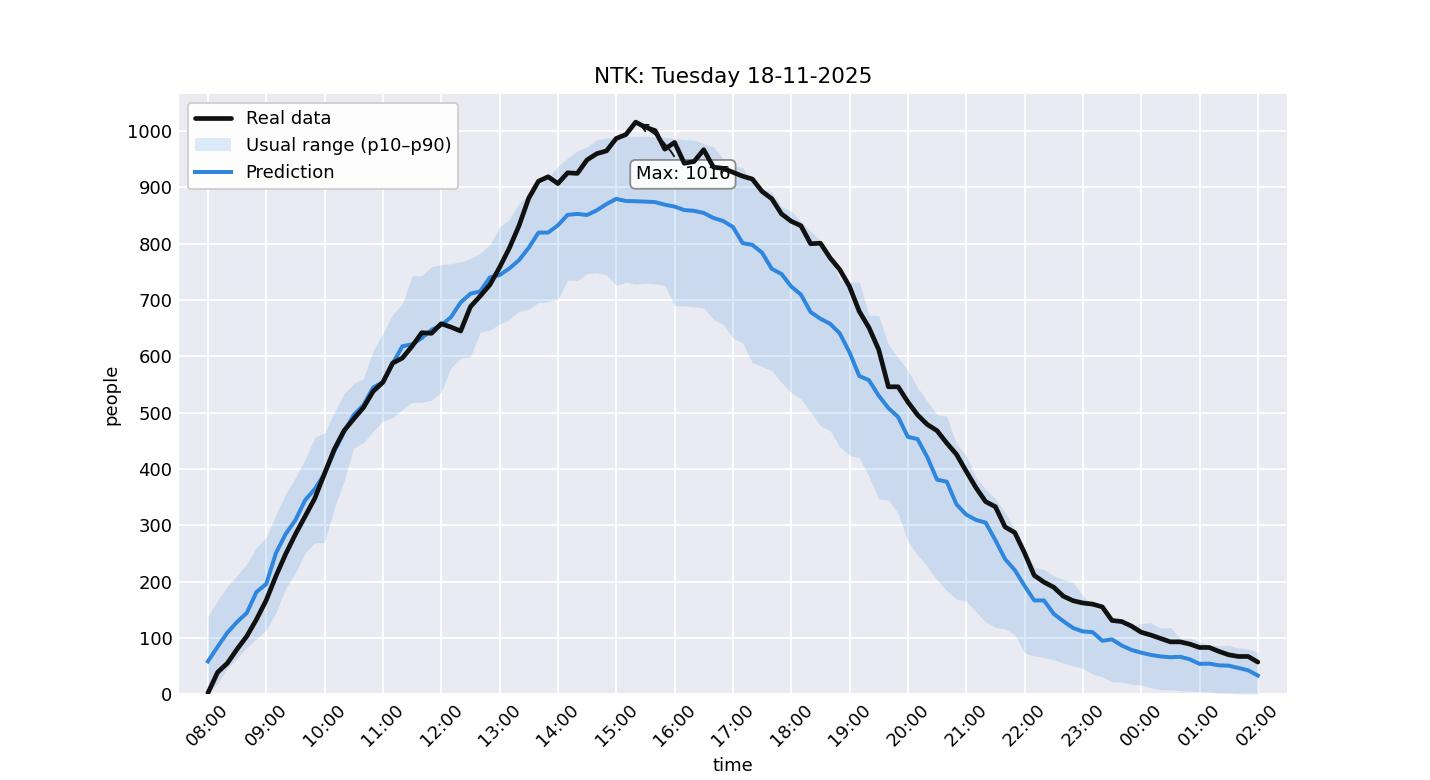
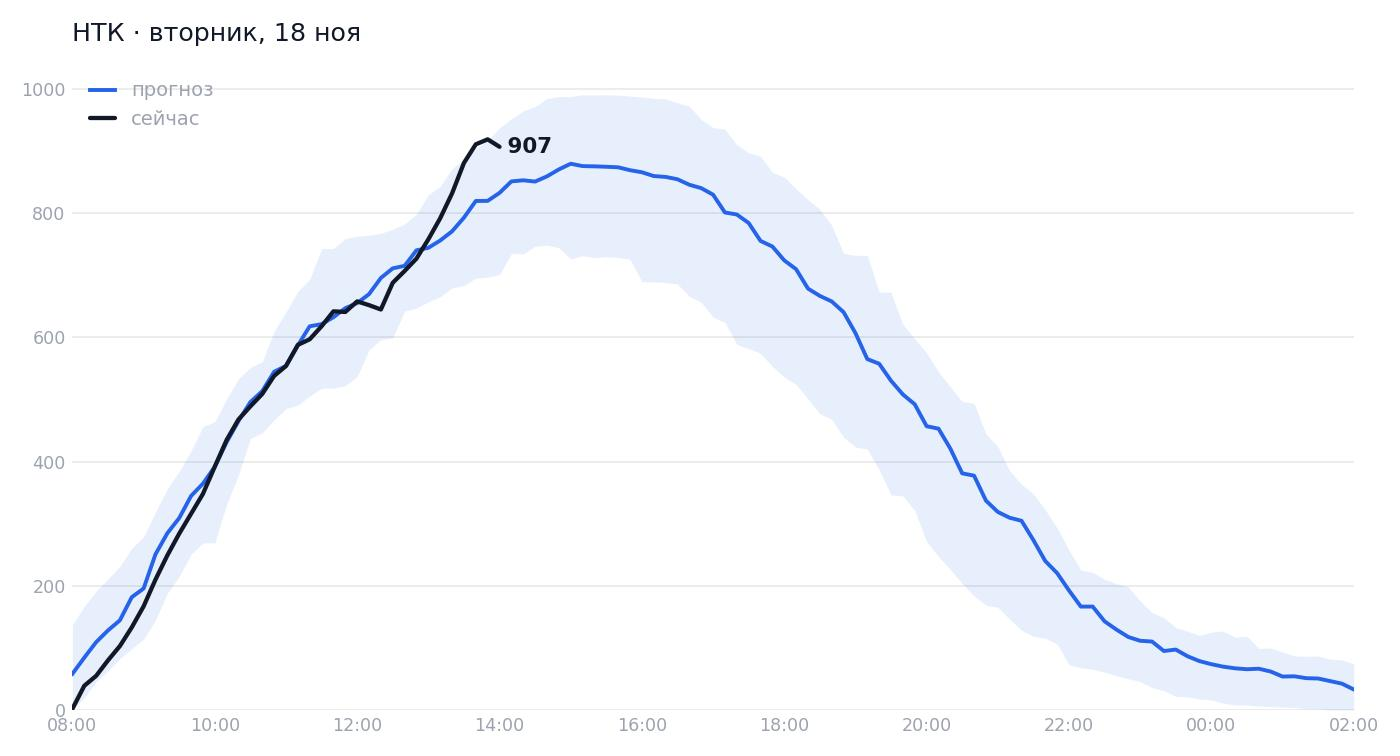
feat(plot): minimal clean /graph redesign (RU labels); drop legacy /weather command
Weather plotting code (apps/weather_api.py, icons/) kept in the repo for a
planned morning digest. Refresh README showcase and command list.

diff --git a/apps/plot_functions.py b/apps/plot_functions.py
@@ -7,19 +7,22 @@ from matplotlib.figure import Figure
 
 from apps.predictModels import predictModels
 
-# Palette + light "seaborn-darkgrid"-like styling, applied per-axes so it does
-# not leak into other figures (e.g. the weather plot).
-_INK = "#111111"
-_BLUE = "#2e86de"
+# Minimal "clean" palette — one ink tone, one accent, muted secondary text.
+_INK = "#111827"  # real data line
+_ACCENT = "#2563EB"  # prediction
+_MUTED = "#9CA3AF"  # ticks / secondary text
+_GRID = "#ECECEC"
+
+_RU_WEEKDAYS = (
+    "понедельник", "вторник", "среда", "четверг", "пятница", "суббота", "воскресенье",
+)
+_RU_MONTHS = (
+    "янв", "фев", "мар", "апр", "мая", "июн", "июл", "авг", "сен", "окт", "ноя", "дек",
+)
 
 
-def _style_axes(ax: Axes) -> None:
-    ax.set_facecolor("#EAEAF2")
-    ax.grid(True, color="white", linewidth=1.0, axis="both")
-    ax.set_axisbelow(True)
-    for spine in ax.spines.values():
-        spine.set_visible(False)
-    ax.tick_params(length=0)
+def _ru_date(dt: datetime) -> str:
+    return f"{_RU_WEEKDAYS[dt.weekday()]}, {dt.day} {_RU_MONTHS[dt.month - 1]}"
 
 
 class PlotGraphs:
@@ -37,88 +40,78 @@ class PlotGraphs:
                 quantities.append(count)
         return datetimes, quantities
 
-    async def daily_graph(
-        self, target_day: datetime | None = None
-    ) -> tuple[Figure, Axes, datetime, datetime]:
-        hours_delta = 18
-        target_day = target_day or datetime.now()
-        start_datetime = target_day.replace(hour=10 if target_day.isoweekday() >= 6 else 8).replace(
-            minute=0, second=0, microsecond=0
-        )
-        end_datetime = start_datetime + timedelta(hours=hours_delta)
-
-        # get data
-        x_times, y_quantities = await self.get_ntk_data(start_datetime, end_datetime)
-
-        fig, ax = plt.subplots(figsize=(11, 6))
-        _style_axes(ax)
-        ax.set_yticks(range(0, 1100, 100))
-        ax.xaxis.set_major_locator(mdates.HourLocator(interval=1))
-        ax.xaxis.set_major_formatter(mdates.DateFormatter("%H:%M"))
-
-        ax.plot(
-            x_times,
-            y_quantities,
-            linestyle="-",
-            color=_INK,
-            linewidth=2.6,
-            solid_capstyle="round",
-            label="Real data",
-            zorder=5,
-        )
-
-        # annotation settings
-        ax.set_xlabel("time")
-        ax.set_ylabel("people")
-        ax.set_title(f"NTK: {start_datetime.strftime('%A')} {start_datetime.strftime('%d-%m-%Y')}")
-
-        # Add annotation for max value
-        if y_quantities:
-            y_max = max(y_quantities)
-            x_max = x_times[y_quantities.index(y_max)]
-            ax.annotate(
-                f"Max: {y_max}",
-                xy=(x_max, y_max),
-                xytext=(x_max, y_max * 0.9),
-                bbox=dict(boxstyle="round", fc="w", ec="0.5", alpha=0.9),
-                arrowprops=dict(arrowstyle="->", connectionstyle="arc3,rad=0.2", color=_INK),
-            )
-
-        ax.set_xlim(start_datetime - timedelta(minutes=30), end_datetime + timedelta(minutes=30))
-        ax.set_ylim(bottom=0)
-        plt.setp(ax.get_xticklabels(), rotation=45)
-
-        return fig, ax, start_datetime, end_datetime
-
     async def daily_graph_with_predictions(
         self, target_day: datetime | None = None
     ) -> tuple[Figure, Axes]:
+        """Minimal occupancy chart: real data + prediction median + p10–p90 band."""
         target_day = target_day or datetime.now()
-        fig, ax, _, _ = await self.daily_graph(target_day)
+        start = target_day.replace(
+            hour=10 if target_day.isoweekday() >= 6 else 8,
+            minute=0,
+            second=0,
+            microsecond=0,
+        )
+        end = start + timedelta(hours=18)
 
+        x_times, y_quantities = await self.get_ntk_data(start, end)
         forecast = await predictModels.predict_day(target_day)
-        # Shaded p10–p90 band = where occupancy usually lands (central 80%).
+
+        fig, ax = plt.subplots(figsize=(10, 5.4))
+        fig.patch.set_facecolor("white")
+        ax.set_facecolor("white")
+        for spine in ax.spines.values():
+            spine.set_visible(False)
+        ax.grid(True, axis="y", color=_GRID, linewidth=1.0)
+        ax.set_axisbelow(True)
+        ax.tick_params(length=0, colors=_MUTED, labelsize=9)
+        ax.xaxis.set_major_locator(mdates.HourLocator(interval=2))
+        ax.xaxis.set_major_formatter(mdates.DateFormatter("%H:%M"))
+
+        # Forecast: soft p10–p90 band + median line.
         ax.fill_between(
             forecast.timestamps,
             forecast.p10,
             forecast.p90,
-            color=_BLUE,
-            alpha=0.16,
+            color=_ACCENT,
+            alpha=0.10,
             linewidth=0,
-            label="Usual range (p10–p90)",
             zorder=1,
         )
-        # Median forecast line.
         ax.plot(
             forecast.timestamps,
             forecast.p50,
-            linestyle="-",
-            color=_BLUE,
+            color=_ACCENT,
+            linewidth=2.0,
+            label="прогноз",
+            zorder=2,
+        )
+        # Real data so far.
+        ax.plot(
+            x_times,
+            y_quantities,
+            color=_INK,
             linewidth=2.2,
-            label="Prediction",
+            solid_capstyle="round",
+            label="сейчас",
             zorder=3,
         )
-        ax.legend(loc="upper left", framealpha=0.95)
+        # Tag the latest real value at the tip of the line.
+        if y_quantities:
+            ax.annotate(
+                f" {y_quantities[-1]}",
+                (x_times[-1], y_quantities[-1]),
+                color=_INK,
+                fontsize=11,
+                fontweight="bold",
+                va="center",
+                zorder=4,
+            )
+
+        ax.set_ylim(bottom=0)
+        ax.set_xlim(start, end)
+        ax.set_title(f"НТК · {_ru_date(start)}", loc="left", color=_INK, fontsize=13, pad=12)
+        ax.legend(loc="upper left", frameon=False, fontsize=10, labelcolor=_MUTED, handlelength=1.3)
+        fig.tight_layout()
         return fig, ax
 
 

diff --git a/bot/handlers/data.py b/bot/handlers/data.py
@@ -5,7 +5,6 @@ from aiogram.filters import Command
 
 from apps.plot_functions import plotGraph
 from apps.predictModels import predictModels
-from apps.weather_api import weatherAPI
 from bot import db
 from bot.filters import NTKChatFilter, SuperAdmins
 
@@ -14,7 +13,7 @@ router = Router()
 
 @router.message(Command("graph"), NTKChatFilter())
 async def send_stats(message: types.Message, bot: Bot):
-    """Send graph with NTK visits prediction and weather forecast"""
+    """Send the occupancy graph: real data, predicted median and the p10–p90 range."""
     fig_visits, _ = await plotGraph.daily_graph_with_predictions()
 
     buffer_visits = io.BytesIO()
@@ -26,25 +25,6 @@ async def send_stats(message: types.Message, bot: Bot):
         photo=types.BufferedInputFile(
             file=buffer_visits.read(),
             filename="visits.png",
-        ),
-    )
-    await message.delete()
-
-
-@router.message(Command("weather"), SuperAdmins())
-async def send_weather(message: types.Message, bot: Bot):
-    """Send weather forecast"""
-    fig_weather, _, _ = await weatherAPI.plot_daily_weather_forecast()
-
-    buffer_weather = io.BytesIO()
-    fig_weather.savefig(buffer_weather, format="png")
-    buffer_weather.seek(0)
-
-    await bot.send_photo(
-        chat_id=message.chat.id,
-        photo=types.BufferedInputFile(
-            file=buffer_weather.read(),
-            filename="weather.png",
         ),
     )
     await message.delete()

diff --git a/tests/apps/test_plot_uses_predict_day.py b/tests/apps/test_plot_uses_predict_day.py
@@ -19,7 +19,8 @@ async def test_daily_graph_with_predictions_draws_predicted_median(monkeypatch):
     fig, ax = await pf.plotGraph.daily_graph_with_predictions(datetime(2024, 3, 1, 12, 0))
 
     labels = [line.get_label() for line in ax.get_lines()]
-    assert "Prediction" in labels
+    assert "прогноз" in labels
+    assert "сейчас" in labels
     import matplotlib.pyplot as plt
 
     plt.close(fig)

diff --git a/README.md b/README.md
@@ -2,17 +2,17 @@
 Telegram bot in @chat_ntk chat for students who regularly visit the National Technical Library. The bot regularly collects statistics on library visits. Based on this data, machine learning models predict the expected occupancy of the library — together with an uncertainty range, not just a single number.
 
 
-| ![Daily graph with predictions](example_images/daily_graph_with_predictions.jpg) | ![Weather forecast](example_images/weather_forecast.jpg) |
-|:---:|:---:|
-| Daily graph with predictions | Weather forecast |
+<p align="center">
+  <img src="example_images/daily_graph_with_predictions.jpg" alt="NTK occupancy with prediction" width="80%">
+</p>
 
 
 ## Current and planned functions:
 - [x] Shows the current number of people in the NTK
 - [x] Regular storage of data from the library website on the number of people
 - [x] Draws a diagram of people's visits in the NTK
-- [x] Predicting the number of people in the library based on the received data with ML models
-- [x] Weather forecasts
+- [x] Predicting the number of people in the library (median + p10–p90 range) with ML models
+- [x] Uses weather as an input signal for the prediction
 - [ ] Anti-bot filter
 - [ ] Function for temporary self mute/ban from the chat so that students are not distracted from their studies
 
@@ -89,7 +89,6 @@ Prefixes: `!/`
 - `/help` - Show help
 - `/graph` - Draw and send the occupancy graph: real data, the predicted median and the p10–p90 range
 - `/learn` - Re-train the CatBoost prediction models on the stored data
-- `/weather` - Show weather forecast
 
 ## Deployment
 
